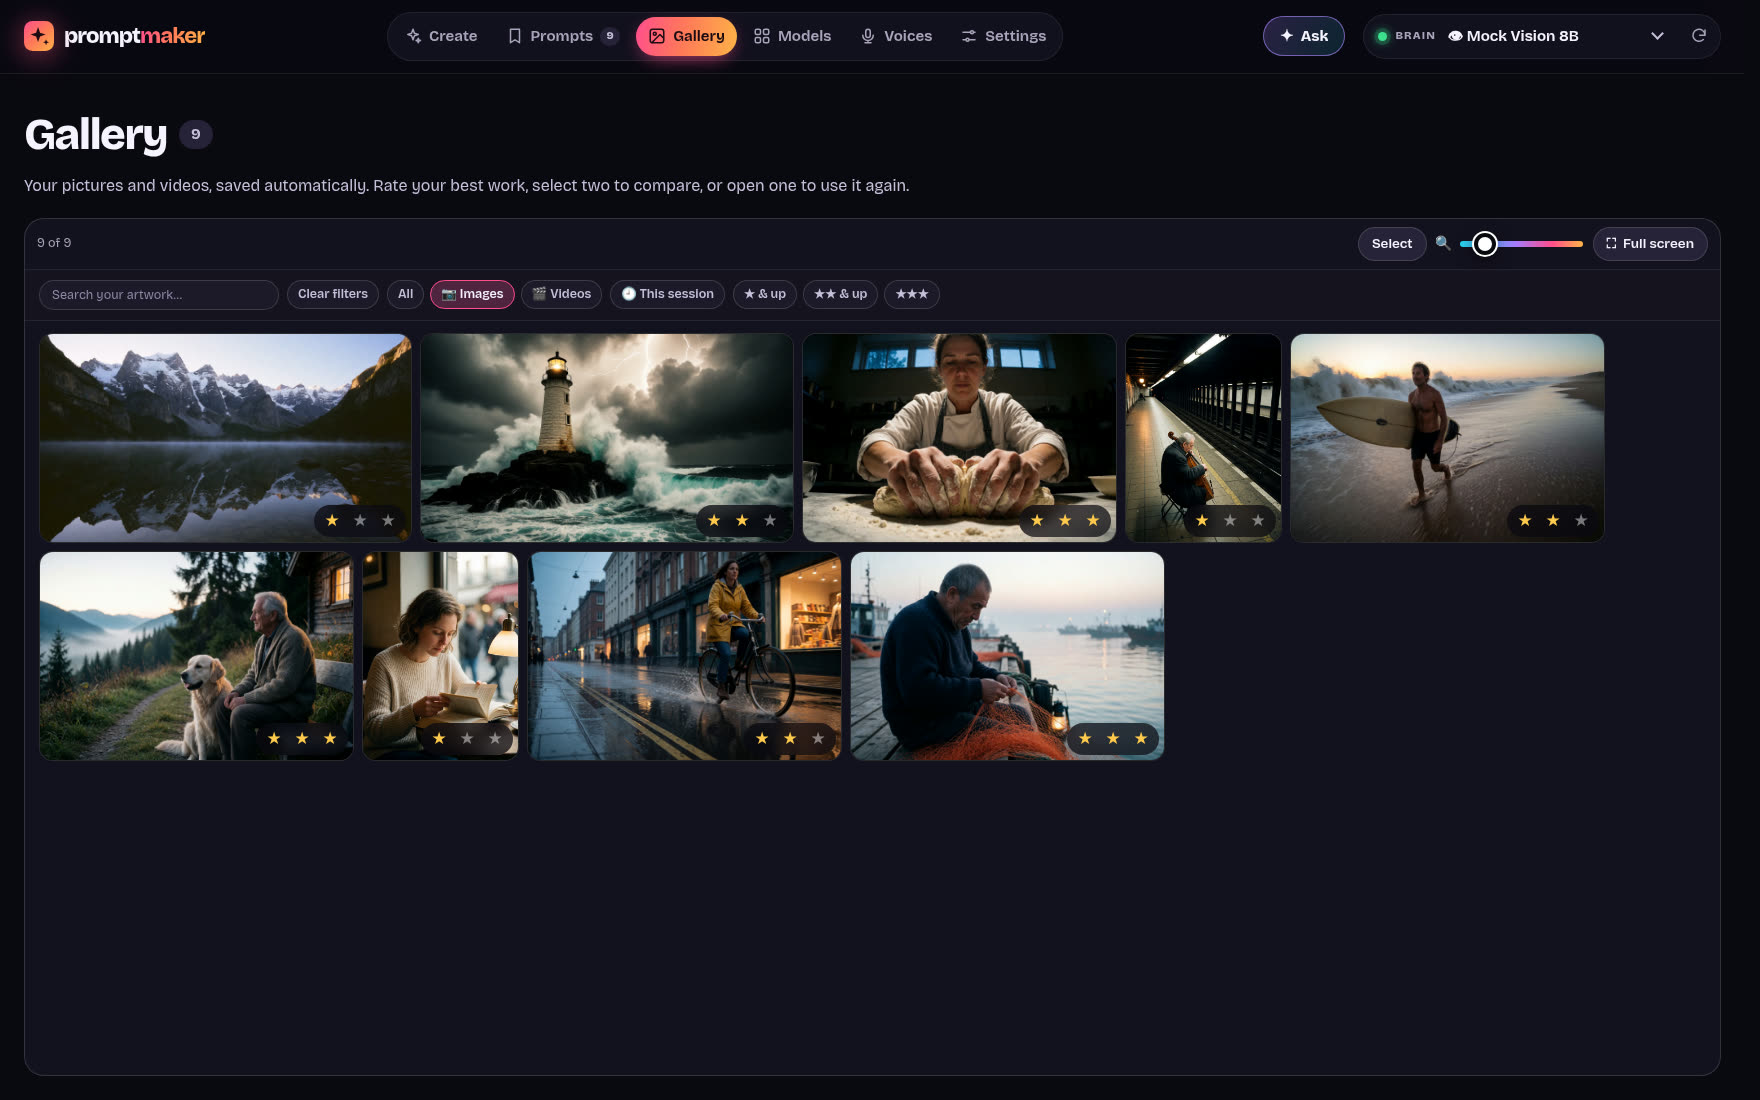
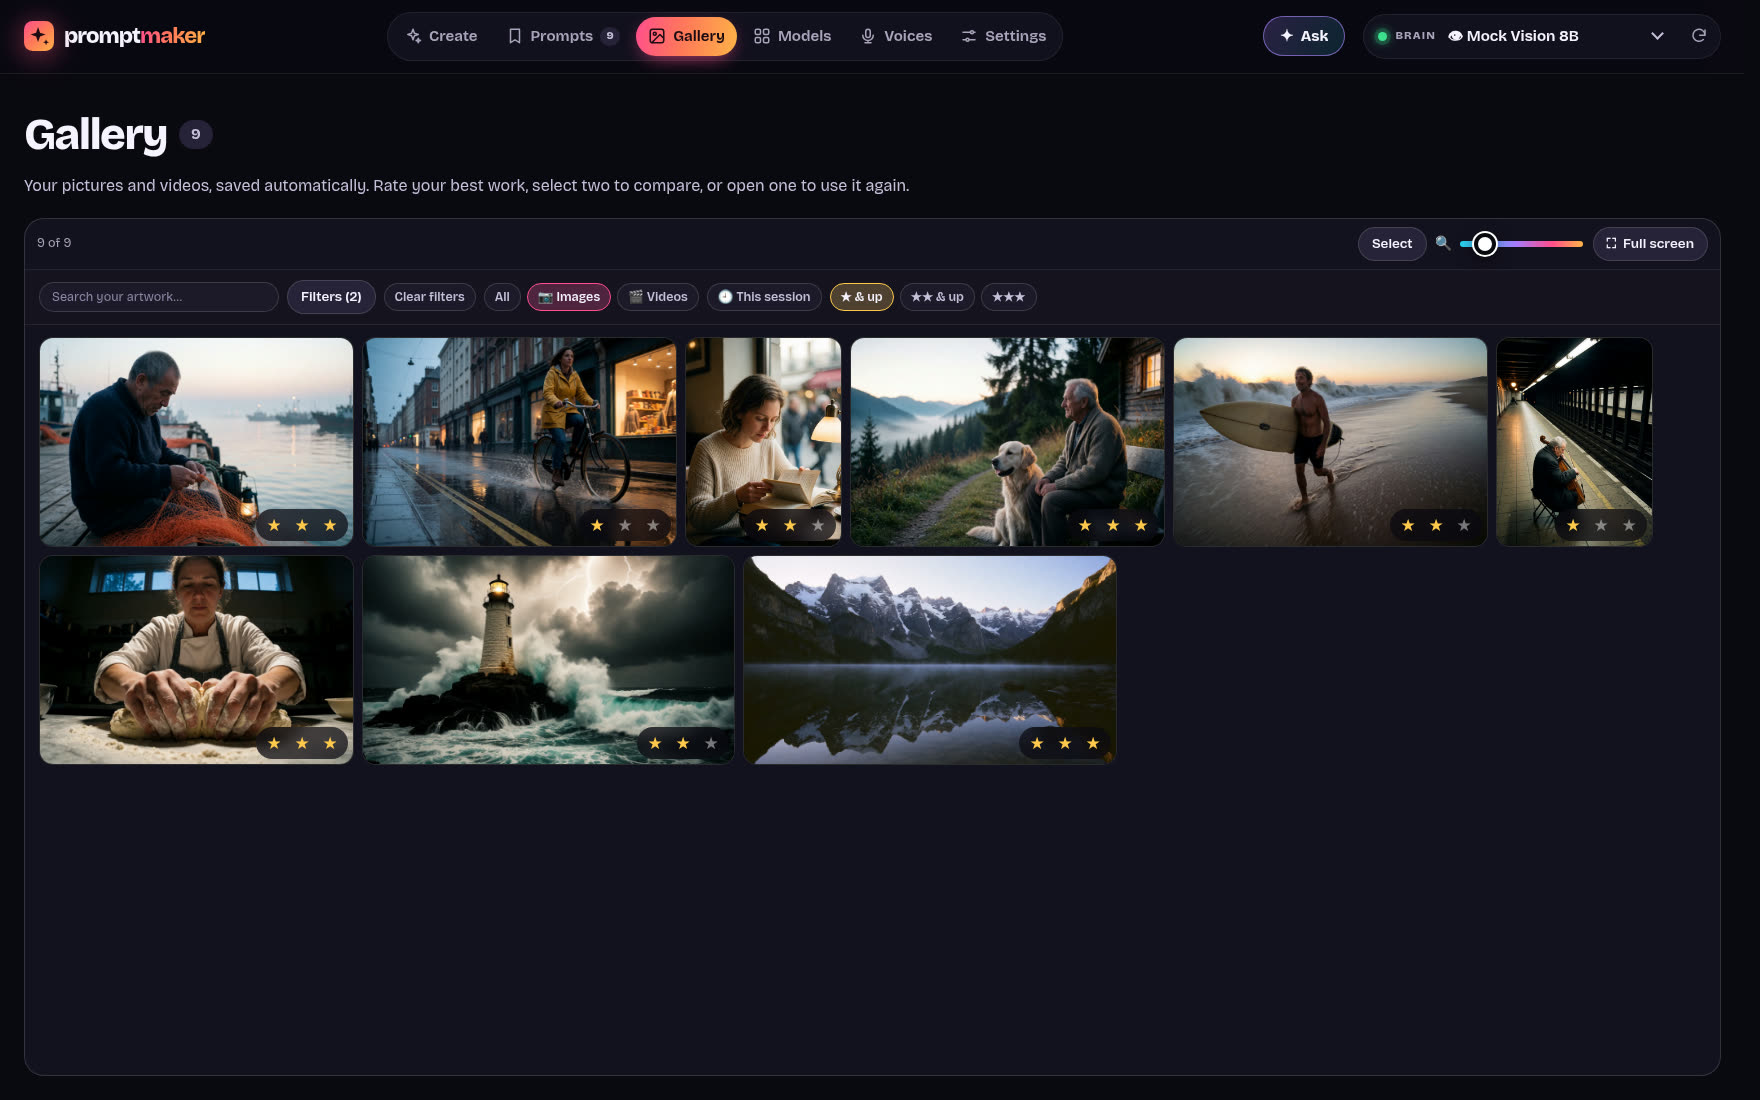
🔎 Finer Gallery filters. Under Filters (now on every screen width, opening on its own while one of these is on): 📅 Today / This week / This month / Older, the shape (▯ Portrait, ▭ Landscape, ▢ Square), ☆ Not rated yet (a star filter lets go of it and the other way round), 🎙 Spoken line (videos made 

Changed region(s): [[0.0, 0.2473, 0.9375, 0.7109]]

diff --git a/public/app.js b/public/app.js
@@ -2908,7 +2908,8 @@ function allRenders() {
 }
 
 // The filters, remembered (all but the words to find).
-const reelFilter = { kind: '', session: false, min: 0, model: '', ...saved.get('reelFilter', {}), q: '', hidden: false };
+const REEL_FILTER_NONE = { kind: '', session: false, min: 0, model: '', when: '', shape: '', unrated: false, line: false, workflow: '', lora: '', look: '' };
+const reelFilter = { ...REEL_FILTER_NONE, ...saved.get('reelFilter', {}), q: '', hidden: false };
 const REEL_PAGE = 60; // pictures drawn at a time; more as you scroll down
 let reelShown = REEL_PAGE;
 let reelItems = []; // what the box shows, in order (for the lightbox)
@@ -2955,13 +2956,31 @@ const madeOn = iso => {
   return d.toDateString() === new Date().toDateString() ? d.toLocaleTimeString([], { hour: 'numeric', minute: '2-digit' }) : d.toLocaleDateString([], { month: 'short', day: 'numeric', year: d.getFullYear() === new Date().getFullYear() ? undefined : 'numeric' });
 };
 
+// When a render was made, for the 📅 filter: today, this week (7 days), this month (30 days), or older.
+function madeWhen(iso) {
+  const t = Date.parse(iso || '');
+  if (!t) return '';
+  const days = (Date.now() - t) / 864e5;
+  return new Date(t).toDateString() === new Date().toDateString() ? 'today' : days < 7 ? 'week' : days < 30 ? 'month' : 'older';
+}
+const whenIn = (made, want) => want === 'older' ? made === 'older' : want === 'month' ? made !== 'older' && made !== '' : want === 'week' ? made === 'today' || made === 'week' : made === want;
+const shapeOf = ratio => (ratio > 1.05 ? 'landscape' : ratio < 0.95 ? 'portrait' : 'square');
+const reelLookOf = e => lookTagOf(e) || '';
+
 function reelMatch(it) {
   const f = reelFilter;
   if (!inGallery() && Boolean(it.render.hidden) !== f.hidden) return false;
   if (f.kind && it.file.kind !== f.kind) return false;
   if (f.session && (it.render.createdAt || '') < sinceStart()) return false;
   if (ratingOf(it.render) < f.min || (f.model && it.entry.modelId !== f.model)) return false;
-  const text = `${it.entry.theme || ''} ${it.render.text || ''} ${it.entry.modelName || ''} ${it.render.workflowName || ''}`.toLowerCase();
+  if (f.unrated && ratingOf(it.render)) return false;
+  if (f.when && !whenIn(madeWhen(it.render.createdAt), f.when)) return false;
+  if (f.shape && shapeOf(reelRatioOf(it)) !== f.shape) return false;
+  if (f.line && !it.entry.line) return false;
+  if (f.workflow && (it.render.workflowName || '') !== f.workflow) return false;
+  if (f.lora && !(it.render.loras || []).some(l => l.name === f.lora)) return false;
+  if (f.look && reelLookOf(it.entry) !== f.look) return false;
+  const text = `${it.entry.theme || ''} ${it.render.text || ''} ${it.entry.modelName || ''} ${it.render.workflowName || ''} ${it.render.seed ?? ''} ${it.render.size || ''} ${it.render.duration || ''} ${reelLookOf(it.entry)} ${(it.render.loras || []).map(l => loraShort(l.name)).join(' ')}`.toLowerCase();
   return reelWords(f.q).every(w => text.includes(w));
 }
 
@@ -2971,11 +2990,14 @@ function reelJobMatch(j) {
   if (f.hidden && !inGallery()) return false;
   const kind = modelById(j.modelId)?.kind === 'video' ? 'video' : 'image';
   if (f.min || (f.kind && kind !== f.kind) || (f.model && j.modelId !== f.model)) return false;
+  if ((f.when && f.when !== 'today') || f.line || f.lora || f.look || (f.workflow && j.workflowName !== f.workflow)) return false;
+  if (f.shape) { const m = /^(\d+(?:\.\d+)?)\s*[:x×]\s*(\d+(?:\.\d+)?)$/.exec(j.aspectRatio || ''); if (!m || shapeOf(m[1] / m[2]) !== f.shape) return false; }
   const text = `${j.theme || ''} ${j.modelName || ''} ${j.workflowName || ''}`.toLowerCase();
   return reelWords(f.q).every(w => text.includes(w));
 }
 
-const reelFiltered = () => Boolean(reelFilter.kind || reelFilter.session || reelFilter.min || reelFilter.model || reelWords(reelFilter.q).length);
+const reelActive = () => Object.keys(REEL_FILTER_NONE).filter(k => reelFilter[k] !== REEL_FILTER_NONE[k]);
+const reelFiltered = () => Boolean(reelActive().length || reelWords(reelFilter.q).length);
 
 // Width / height: the picture's own once it has loaded, else the size it was rendered at, else its model's aspect.
 function reelRatioOf(it) {
@@ -3068,11 +3090,35 @@ function renderReelFilters(all) {
   }
   menu.value = f.model;
   menu.hidden = models.length < 2 && !f.model;
+  // Menus of what the renders were made with: a workflow, a LoRA, a look. Each shows once there's a choice.
+  const menuOf = (id, field, label, pairs) => {
+    const items = [...new Map(pairs.filter(([v]) => v).map(([v, name]) => [v, name])).entries()].sort((a, b) => a[1].localeCompare(b[1]));
+    if (f[field] && !items.some(([v]) => v === f[field])) f[field] = '';
+    const el = $(id);
+    const opts = [['', label], ...items];
+    const k = JSON.stringify(opts);
+    if (el.dataset.key !== k) { el.dataset.key = k; el.innerHTML = opts.map(([v, name]) => `<option value="${esc(v)}">${esc(name)}</option>`).join(''); }
+    el.value = f[field];
+    el.hidden = items.length < 2 && !f[field];
+  };
+  menuOf('#reelWorkflow', 'workflow', 'Any workflow', all.map(it => [it.render.workflowName || '', it.render.workflowName || '']));
+  menuOf('#reelLora', 'lora', 'Any LoRA', all.flatMap(it => (it.render.loras || []).map(l => [l.name, loraShort(l.name)])));
+  menuOf('#reelLook', 'look', 'Any look', all.map(it => [reelLookOf(it.entry), reelLookOf(it.entry)]));
+  $('#reelLine').hidden = !f.line && !all.some(it => it.entry.line);
   $$('#reelKinds button').forEach(b => b.setAttribute('aria-pressed', b.dataset.kind === f.kind));
   $$('#reelRated button').forEach(b => b.setAttribute('aria-pressed', Number(b.dataset.min) === f.min));
+  $$('#reelWhen button').forEach(b => b.setAttribute('aria-pressed', b.dataset.when === f.when));
+  $$('#reelShape button').forEach(b => b.setAttribute('aria-pressed', b.dataset.shape === f.shape));
   $('#reelSession').setAttribute('aria-pressed', f.session);
+  $('#reelUnrated').setAttribute('aria-pressed', f.unrated);
+  $('#reelLine').setAttribute('aria-pressed', f.line);
   if ($('#reelFind') !== document.activeElement) $('#reelFind').value = f.q;
-  const count = Number(Boolean(f.kind)) + Number(Boolean(f.model)) + Number(Boolean(f.min)) + Number(Boolean(f.session)) + Number(Boolean(f.hidden)) + Number(Boolean(f.q.trim()));
+  const count = reelActive().length + Number(Boolean(f.hidden)) + Number(Boolean(f.q.trim()));
+  const fine = ['when', 'shape', 'unrated', 'line', 'workflow', 'lora', 'look'];
+  if (reelActive().some(k => fine.includes(k)) && $('#reelFilterToggle').getAttribute('aria-expanded') !== 'true') { // a finer filter is on: show it
+    $('#reelFilterToggle').setAttribute('aria-expanded', 'true');
+    $('#reelFilters').classList.add('filters-open');
+  }
   $('#reelFilterToggle').textContent = count ? `Filters (${count})` : 'Filters';
   $('#reelFilterClear').hidden = !count && !f.q;
 }
@@ -3082,7 +3128,12 @@ $('#reelFilterToggle').addEventListener('click', () => {
   $('#reelFilterToggle').setAttribute('aria-expanded', String(open));
   $('#reelFilters').classList.toggle('filters-open', open);
 });
-$('#reelFilterClear').addEventListener('click', () => setReelFilter({ kind: '', model: '', min: 0, session: false, hidden: false, q: '' }));
+$('#reelFilterClear').addEventListener('click', () => setReelFilter({ ...REEL_FILTER_NONE, hidden: false, q: '' }));
+$('#reelWhen').addEventListener('click', e => { const b = e.target.closest('button'); if (b) setReelFilter({ when: b.dataset.when === reelFilter.when ? '' : b.dataset.when }); });
+$('#reelShape').addEventListener('click', e => { const b = e.target.closest('button'); if (b) setReelFilter({ shape: b.dataset.shape === reelFilter.shape ? '' : b.dataset.shape }); });
+$('#reelUnrated').addEventListener('click', () => setReelFilter({ unrated: !reelFilter.unrated, ...(reelFilter.unrated ? {} : { min: 0 }) }));
+$('#reelLine').addEventListener('click', () => setReelFilter({ line: !reelFilter.line }));
+for (const [id, field] of [['#reelWorkflow', 'workflow'], ['#reelLora', 'lora'], ['#reelLook', 'look']]) $(id).addEventListener('change', e => setReelFilter({ [field]: e.target.value }));
 
 function setReelFilter(change) {
   Object.assign(reelFilter, change);
@@ -3631,7 +3682,7 @@ document.addEventListener('keydown', e => {
 
 $('#reelToggle').addEventListener('click', () => { saved.set('reelClosed', reelOpen()); renderReel(); pollRenders(); });
 $('#reelKinds').addEventListener('click', e => { const b = e.target.closest('button'); if (b) setReelFilter({ kind: b.dataset.kind }); });
-$('#reelRated').addEventListener('click', e => { const b = e.target.closest('button'); if (b) setReelFilter({ min: Number(b.dataset.min) === reelFilter.min ? 0 : Number(b.dataset.min) }); });
+$('#reelRated').addEventListener('click', e => { const b = e.target.closest('button'); if (b) setReelFilter({ min: Number(b.dataset.min) === reelFilter.min ? 0 : Number(b.dataset.min), unrated: false }); });
 $('#reelSession').addEventListener('click', () => setReelFilter({ session: !reelFilter.session }));
 $('#reelHidden').addEventListener('click', () => setReelFilter({ hidden: !reelFilter.hidden }));
 $('#reelModel').addEventListener('change', e => setReelFilter({ model: e.target.value }));
@@ -3639,7 +3690,7 @@ $('#reelFind').addEventListener('input', e => setReelFilter({ q: e.target.value 
 $('#reelEmpty').addEventListener('click', e => {
   if (!e.target.closest('[data-reel="all"]')) return;
   $('#reelFind').value = '';
-  setReelFilter({ kind: '', session: false, min: 0, model: '', q: '' });
+  setReelFilter({ ...REEL_FILTER_NONE, q: '' });
 });
 
 // Opens the take a chained entry came from.

diff --git a/public/index.html b/public/index.html
@@ -377,6 +377,24 @@
                   <button type="button" class="chip-btn rated" data-min="3" aria-pressed="false" title="Rated excellent">★★★</button>
                 </div>
                 <select id="reelModel" class="reel-model" aria-label="Filter by model"></select>
+                <div id="reelFine" class="reel-fine">
+                <div id="reelWhen" class="filter-chips" role="group" aria-label="When it was made">
+                  <button type="button" class="chip-btn" data-when="today" aria-pressed="false" title="Made today">📅 Today</button>
+                  <button type="button" class="chip-btn" data-when="week" aria-pressed="false" title="Made in the last 7 days">This week</button>
+                  <button type="button" class="chip-btn" data-when="month" aria-pressed="false" title="Made in the last 30 days">This month</button>
+                  <button type="button" class="chip-btn" data-when="older" aria-pressed="false" title="Made more than 30 days ago">Older</button>
+                </div>
+                <div id="reelShape" class="filter-chips" role="group" aria-label="Shape">
+                  <button type="button" class="chip-btn" data-shape="portrait" aria-pressed="false" title="Taller than wide">▯ Portrait</button>
+                  <button type="button" class="chip-btn" data-shape="landscape" aria-pressed="false" title="Wider than tall">▭ Landscape</button>
+                  <button type="button" class="chip-btn" data-shape="square" aria-pressed="false" title="About as wide as tall">▢ Square</button>
+                </div>
+                <button type="button" id="reelUnrated" class="chip-btn" aria-pressed="false" title="Renders you haven't rated yet">☆ Not rated yet</button>
+                <button type="button" id="reelLine" class="chip-btn" aria-pressed="false" title="Videos made with a 🎙 spoken line" hidden>🎙 Spoken line</button>
+                <select id="reelWorkflow" class="reel-model" aria-label="Filter by workflow" hidden></select>
+                <select id="reelLora" class="reel-model" aria-label="Filter by LoRA" hidden></select>
+                <select id="reelLook" class="reel-model" aria-label="Filter by look" hidden></select>
+                </div>
                 <button type="button" id="reelHidden" class="chip-btn" aria-pressed="false" title="The renders you hid. Click 👁 Show on one to bring it back." hidden>🙈 Hidden</button>
                 <button type="button" id="reelNewest" class="chip-btn" title="You've dragged cards into your own order. This puts them back newest first." hidden>↺ Newest first</button>
                 </div>

diff --git a/public/app.css b/public/app.css
@@ -1619,7 +1619,10 @@ dialog.jobs-dlg { width: min(860px, calc(100vw - 32px)); }
 #backToModels { margin-bottom: 16px; }
 .reel-filter-options { display: flex; align-items: center; gap: 8px; flex-wrap: wrap; }
 .reel-filters .reel-find { min-width: 140px; flex: 1 1 180px; }
-#reelFilterToggle { display: none; }
+/* The finer filters (when, shape, not rated, spoken line, workflow, LoRA, look) fold under Filters, so the bar stays
+   one row until you ask; they open on their own while one of them is on. */
+.reel-fine { display: none; flex-basis: 100%; flex-wrap: wrap; align-items: center; gap: 6px 8px; }
+.filters-open .reel-fine { display: flex; }
 .reel-sel { position: sticky; bottom: 0; flex-wrap: wrap; background: var(--panel-solid); }
 .reel-grid.selecting .reel-cell::before { content: ''; pointer-events: none; position: absolute; z-index: 2; top: 8px; left: 8px; width: 22px; height: 22px; border: 2px solid white; background: rgb(0 0 0 / 60%); border-radius: 5px; }
 .reel-grid.selecting .reel-cell.picked::before { content: '✓'; background: var(--hot); color: var(--ink); display: grid; place-items: center; font-weight: 800; }
@@ -1654,7 +1657,6 @@ body.narrow #stage, body.narrow #theme { scroll-margin-top: calc(var(--topbar-h,
 @media (max-width: 760px) {
   .reel-filters { flex-wrap: wrap; overflow: visible; }
   .reel-filters .reel-find { flex: 1 1 140px; width: 140px; max-width: none; }
-  #reelFilterToggle { display: inline-flex; }
   .reel-filter-options { display: none; flex-basis: 100%; }
   .filters-open .reel-filter-options { display: flex; }
   .reel-filter-options .filter-chips { flex-wrap: wrap; }

diff --git a/docs/guide.md b/docs/guide.md
@@ -602,7 +602,7 @@ While a chain runs, a strip above the results shows every step. Click any thumbn
 **🎞 Your renders** sits above the takes on Create. It holds a card for every render you've ever made, from every run and batch, all in one grid, newest first. It keeps them when you reload the page or restart Prompt Maker.
 
 - **Live.** A render shows up the moment it starts, with its preview, progress and **✕ Cancel**, and stays when it's done.
-- **Filters:** 📷 Images or 🎬 Videos, **🕘 This session** (only what you made since Prompt Maker last started), **★ & up**, **★★ & up** or **★★★**, a model, and **Find…** to search the words of the prompt. The count says how many show (*12 of 183*). The filters are remembered, except Find.
+- **Filters:** 📷 Images or 🎬 Videos, **🕘 This session** (only what you made since Prompt Maker last started), **★ & up**, **★★ & up** or **★★★** or **☆ Not rated yet**, a model, **📅 Today / This week / This month / Older**, the shape (**▯ Portrait**, **▭ Landscape**, **▢ Square**), **🎙 Spoken line** (videos made with one), and, once there's a choice, the **workflow**, the **LoRA** and the **look** they were made with. **Find…** searches the words of the prompt, the model, the workflow, the look, the LoRAs, the seed and the size (type *1920×1080* or a seed number). The count says how many show (*12 of 183*). The filters are remembered, except Find.
 - **Arrange them your way.** Drag a card where you want it and the others slide aside to make room: over a card's left half it goes before it, over its right half after it. On a touch screen, hold it a moment first; with the keyboard, **Shift + ←** or **→** moves the card you're on. Your order is saved in your data folder, so it stays. New renders come in first, ahead of the ones you've placed. **↺ Newest first** goes back to newest first.
 - **As big as you want.** Drag the box's bottom edge to make it taller or shorter. It keeps that height while renders arrive, so the takes below don't move. **🔍** makes the pictures bigger or smaller, up to one picture as tall as the box. **⛶ Full screen** gives the box the whole window (**Esc** goes back). **▾** folds it away. All of this is remembered.
 - **Delete several at once.** **Ctrl**-click (**⌘** on a Mac) the cards you want gone, **Shift**-click to take every card up to the one you click, or drag a box across them from an empty spot (or with **Ctrl** held, from a card). Picked cards get a ✓. The bar at the bottom says how many; **🗑 Delete** (click twice: *Sure?*) or the **Delete** key deletes them for good, here and in ComfyUI. They dim for 8 seconds first, with one **↶ Undo** for them all. **Esc**, **✕** or a click on an empty spot lets go of the selection; **Ctrl + A** picks every card shown.

diff --git a/README.md b/README.md
@@ -66,7 +66,7 @@ The main button tells you what comes next: **Write prompt**, **Make image**, or 
 
 Choose **Shape**, **Size** and **Variations** on the main path. Size offers Small to Huge in the picked shape (HD, Full HD, 2K and 4K by name on video), starts on the model's usual size, and takes any width × height you type; prompt length and adventurousness sit under **More options**. The model guide and look choices (eleven looks, **No look**, or **your own**) open when needed. **Models** starts with what each model makes, what it needs and its local rendering readiness; **Customize** opens the existing playbook and workflow editor.
 
-In Gallery, search stays visible on small screens, with extra choices under **Filters**, an active-filter count and **Clear filters**. The viewer links back to the original prompt. **Pin on the left** changes the comparison reference; stars rate the artwork. Secondary actions and panels are quieter so the work stands out.
+In Gallery, search stays visible on small screens, with the finer choices under **Filters** (when it was made, shape, not rated yet, spoken line, workflow, LoRA, look), an active-filter count and **Clear filters**; search also finds a seed or a size. The viewer links back to the original prompt. **Pin on the left** changes the comparison reference; stars rate the artwork. Secondary actions and panels are quieter so the work stands out.
 
 ## The same person, every shot
 

diff --git a/TODO.md b/TODO.md
@@ -23,6 +23,9 @@ and what "done" looks like; done items move to the bottom with the version that 
 
 ## Done
 
+- 1.43.0 — Finer Gallery filters: 📅 Today / This week / This month / Older, shape (portrait, landscape, square),
+  ☆ Not rated yet, 🎙 Spoken line, and menus for the workflow, LoRA and look a render was made with (each shows once
+  there's a choice); search also finds a seed, a size, a look or a LoRA.
 - 1.42.0 — Every parameter of a take can be changed on the take: **⚙ This take's settings** under its render bar
   holds shape, size, duration, seed, every sampler setting and the LoRA switches and strengths, for that take's
   renders only (step ⑤ and the other takes keep theirs; ↺ Same as step ⑤ gives it all back).
